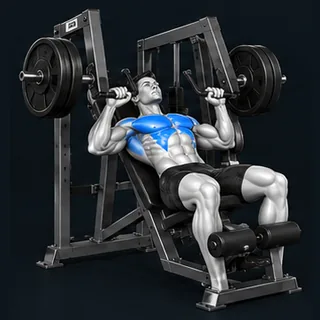
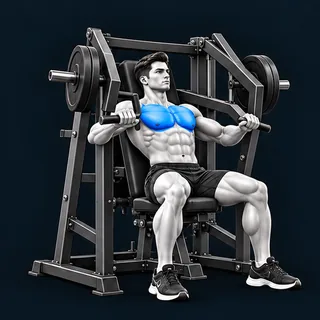
feat(record): 인터벌 운동 중 화면에 운동 그림 + 운동 그림 158종
- 인터벌 화면(IntervalSessionOverlay) 160px 그림(사용자 지시): 운동 중엔 지금 종목,
  휴식·준비 중엔 다음 종목. 그림이 없어도 자리를 남겨 카운트다운이 들썩이지 않게 한다.
  탭(tabata-sheet)이 카탈로그 운동 ID를 넘긴다 — 직접 만든 운동엔 붙지 않는다
- 누적 160개 파일럿 반영(전체160_UUID_파일매핑.json): 운동 158개 · 그림 156장(1,266KB),
  Codex 156 · 사용자 시트 2. 가장자리 조각 1장 자산에서 제거(원본 보존)
- 로컬 QA 화면에 인터벌 미리보기(운동 중 20초·휴식 38초, 개발 모드 전용)
- 릴리스 노트 운동 수 122 → 158, 인터벌 그림 문구 (발송 안 함)

diff --git a/src/app/image-local-qa/picker-qa.tsx b/src/app/image-local-qa/picker-qa.tsx
@@ -2,6 +2,7 @@
 import { useState } from "react";
 import { ActiveSessionOverlay } from "@/components/record/active-session-overlay";
 import { ExerciseCard } from "@/components/record/exercise-card";
+import { IntervalSessionOverlay } from "@/components/record/interval-session-overlay";
 import { IntervalProgramDetail, ProgramDetail } from "@/components/programs/program-catalog";
 import { OFFICIAL_PROGRAMS, isIntervalProgram, isLadderProgram } from "@/lib/domain/official-programs";
 import { amountFields } from "@/lib/domain/set-input";
@@ -17,6 +18,7 @@ import { LocalTrialFailureContext } from "@/lib/domain/exercise-image-local-tria
  * (2026-10-05 클로드 추가. 카드는 계획 모드로 그려 완료 체크가 없다).
  * 「운동 중 화면」 버튼은 고른 첫 운동을 지금 운동, 둘째를 다음 운동으로 하는 운동 중
  * 화면(①제목·③다음 운동 그림)을 띄운다. 값은 가짜이고 아무 데도 저장하지 않는다.
+ * 「인터벌」 버튼은 고른 운동(최대 4개)으로 인터벌 화면을 운동 중(20초)·휴식(38초) 시점에 띄운다.
  * `?program=<key>`면 공식 프로그램 상세(종목 그림)를 그린다 — 실제 경로는 Supabase가 있어야 열린다.
  */
 function toLocal(item: CatalogExercise): LocalExercise {
@@ -44,6 +46,7 @@ export function LocalImagePickerQA({ catalog, broken, program }: { catalog: Cata
   const [open, setOpen] = useState(true);
   const [picked, setPicked] = useState<CatalogExercise[]>([]);
   const [overlay, setOverlay] = useState<"input" | "rest" | null>(null);
+  const [intervalAt, setIntervalAt] = useState<number | null>(null);
   const noop = () => {};
   const imageOf = (item: CatalogExercise | undefined) => {
     const id = item ? imageIdForAddedExercise({ name: item.name, isCustom: item.is_custom }) : undefined;
@@ -60,6 +63,10 @@ export function LocalImagePickerQA({ catalog, broken, program }: { catalog: Cata
       <button className="rounded border px-2" onClick={() => setOverlay("input")}>운동 중 화면(입력)</button>
       <button className="rounded border px-2" onClick={() => setOverlay("rest")}>운동 중 화면(휴식)</button>
     </p>}
+    {now && <p className="mt-2 flex gap-2">
+      <button className="rounded border px-2" onClick={() => setIntervalAt(20)}>인터벌(운동 중)</button>
+      <button className="rounded border px-2" onClick={() => setIntervalAt(38)}>인터벌(휴식)</button>
+    </p>}
     <LocalTrialFailureContext.Provider value={broken}>
       <div className="mt-3 flex flex-col gap-3">
         {picked.map((item, i) => (
@@ -68,6 +75,11 @@ export function LocalImagePickerQA({ catalog, broken, program }: { catalog: Cata
             onRemoveExercise={noop} planning />
         ))}
       </div>
+      {now && intervalAt !== null && (
+        <IntervalSessionOverlay open exerciseNames={picked.slice(0, 4).map(item => item.name)}
+          exerciseIds={picked.slice(0, 4).map(item => item.id)} minutes={4} elapsedSeconds={intervalAt}
+          paused={false} onTogglePause={noop} onStop={() => setIntervalAt(null)} />
+      )}
       {now && overlay && (
         <ActiveSessionOverlay open mode={overlay} elapsedLabel="12:34" exerciseName={now.name} exerciseImage={imageOf(now)}
           progress={{ completed: 1, total: 4, percent: 25 }} setProgress={{ done: 1, total: 3, remaining: 2 }}

diff --git a/src/components/record/interval-session-overlay.tsx b/src/components/record/interval-session-overlay.tsx
@@ -3,6 +3,8 @@
 import { intervalCheer } from "@/lib/domain/interval-cheer";
 import { intervalCueAt } from "@/lib/domain/interval-cue";
 import type { TabataMinutes } from "@/lib/domain/tabata";
+import { exerciseImageSrc } from "@/lib/domain/exercise-images";
+import { ExerciseThumbTile } from "./exercise-thumb";
 
 /**
  * 인터벌 실행 화면 (사용자 지시 2026-08-13).
@@ -25,6 +27,12 @@ export type IntervalSessionOverlayProps = {
   open: boolean;
   /** 4종목. 순서가 라운드 순서다 */
   exerciseNames: readonly string[];
+  /**
+   * `exerciseNames`와 같은 순서의 카탈로그 운동 ID (사용자 지시 2026-10-05 — 인터벌 중에도
+   * 그림). 그림 연결표에 없는 ID(그림 없는 운동·직접 만든 운동)는 빈 자리가 된다.
+   * 넘기지 않으면 그림 자리 자체가 없다(예전 화면 그대로).
+   */
+  exerciseIds?: readonly string[];
   minutes: TabataMinutes;
   /** 음원의 현재 위치(초). 부모가 `audio.currentTime`을 그대로 넘긴다 */
   elapsedSeconds: number;
@@ -36,6 +44,7 @@ export type IntervalSessionOverlayProps = {
 export function IntervalSessionOverlay({
   open,
   exerciseNames,
+  exerciseIds,
   minutes,
   elapsedSeconds,
   paused,
@@ -62,6 +71,20 @@ export function IntervalSessionOverlay({
           cue.phase === "prep" ? cue.nextExerciseIndex : cue.nextExerciseIndex,
         )
       : null;
+  /*
+    그림은 **지금 할 동작**이다 — 운동 중이면 지금 종목, 휴식·준비 중이면 다음 종목.
+    쉬는 10초 동안 다음 자세를 미리 본다. 끝나면 없다.
+  */
+  const imageIndex =
+    cue.phase === "work"
+      ? cue.exerciseIndex
+      : cue.phase === "rest" || cue.phase === "prep"
+        ? cue.nextExerciseIndex
+        : null;
+  const imageId =
+    imageIndex === null ? undefined : exerciseIds?.[imageIndex];
+  const imageName = nameAt(imageIndex);
+  const imageSrc = imageId ? exerciseImageSrc(imageId) : undefined;
   const cheer = intervalCheer(cue);
   const roundLabel =
     cue.phase === "done"
@@ -118,6 +141,23 @@ export function IntervalSessionOverlay({
       </header>
 
       <div className="flex flex-1 flex-col items-center justify-center gap-3">
+        {/*
+          종목 그림 160px (사용자 지시 2026-10-05). 그림이 없는 종목이어도 **자리는
+          남긴다** — 20초마다 종목이 바뀌는데 그림 유무로 아래 카운트다운이 위아래로
+          들썩이면 그게 제일 먼저 거슬린다. 끝난 화면과 그림을 안 넘긴 화면에는 없다.
+        */}
+        {exerciseIds && cue.phase !== "done" && (
+          imageSrc && imageId && imageName ? (
+            <ExerciseThumbTile
+              key={imageId}
+              id={imageId}
+              name={imageName}
+              size={160}
+            />
+          ) : (
+            <div aria-hidden data-testid="interval-image-slot" className="h-40 w-40" />
+          )
+        )}
         {/* 숫자가 빠진 자리를 종목 이름이 채운다 — 이제 이게 화면의 주인공이다 */}
         <p
           data-testid="interval-phase"

diff --git a/src/components/record/interval-session-overlay.test.tsx b/src/components/record/interval-session-overlay.test.tsx
@@ -2,6 +2,7 @@
 
 import { cleanup, fireEvent, render, screen } from "@testing-library/react";
 import { afterEach, describe, expect, it, vi } from "vitest";
+import { seedExerciseIdByName } from "@/lib/domain/exercise-images";
 import { IntervalSessionOverlay } from "./interval-session-overlay";
 
 afterEach(cleanup);
@@ -238,5 +239,49 @@ describe("IntervalSessionOverlay", () => {
       "9라운드 / 32라운드",
     );
     expect(screen.getByTestId("interval-phase").textContent).toBe("맨몸 스쿼트");
+  });
+});
+
+// 인터벌 중에도 운동 그림 (사용자 지시 2026-10-05). 운동 중엔 지금 종목, 휴식·준비 중엔
+// 다음 종목. 그림이 없으면 자리만 남겨 카운트다운이 들썩이지 않게 한다.
+describe("인터벌 화면 그림", () => {
+  const IDS = NAMES.map((n) => seedExerciseIdByName(n) ?? `no-image-${n}`);
+  const imgSrc = (c: HTMLElement) => {
+    const s = c.querySelector("img")?.getAttribute("src");
+    return s ? decodeURIComponent(s) : null;
+  };
+
+  it("전제 — 앞 두 종목은 그림 연결표에 있다 (아래 단언이 공회전하지 않게)", () => {
+    expect(seedExerciseIdByName("맨몸 스쿼트")).toBeTruthy();
+    expect(seedExerciseIdByName("니 푸시업")).toBeTruthy();
+  });
+
+  it("운동 중(20초)에는 지금 종목의 그림을 160px로 보인다", () => {
+    const { container } = view(20, { exerciseIds: IDS });
+    expect(imgSrc(container)).toContain(IDS[0]);
+    expect(container.querySelector("img")!.parentElement!.className).toContain("h-40");
+  });
+
+  it("휴식 중(10초)에는 다음 종목의 그림을 보인다", () => {
+    const { container } = view(38, { exerciseIds: IDS });
+    expect(screen.getByTestId("interval-phase").textContent).toBe("휴식");
+    expect(imgSrc(container)).toContain(IDS[1]);
+  });
+
+  it("준비 중에는 첫 종목의 그림을 보인다", () => {
+    const { container } = view(5, { exerciseIds: IDS });
+    expect(imgSrc(container)).toContain(IDS[0]);
+  });
+
+  it("그림이 없는 종목은 같은 크기의 빈 자리만 남긴다", () => {
+    const { container } = view(20, { exerciseIds: ["no-image", ...IDS.slice(1)] });
+    expect(container.querySelector("img")).toBeNull();
+    expect(screen.getByTestId("interval-image-slot").className).toContain("h-40");
+  });
+
+  it("ID를 넘기지 않으면 그림 자리 자체가 없다 (예전 화면)", () => {
+    const { container } = view(20);
+    expect(container.querySelector("img")).toBeNull();
+    expect(screen.queryByTestId("interval-image-slot")).toBeNull();
   });
 });

diff --git a/src/components/record/exercise-thumb.tsx b/src/components/record/exercise-thumb.tsx
@@ -31,13 +31,20 @@ export function ExerciseThumbTile({
   name: string;
   /** 불러오기 실패 시 부위 아이콘용. 없으면(프로그램 화면) 실패 시 칸을 숨긴다 */
   bodyPart?: BodyPart;
-  /** 목록 48px(기본) · 기록 화면 운동 카드 40px · 운동 중 화면 72px */
-  size?: 72 | 48 | 40;
+  /** 목록 48px(기본) · 기록 화면 운동 카드 40px · 운동 중 화면 72px · 인터벌 화면 160px */
+  size?: 160 | 72 | 48 | 40;
 }) {
   const broken = useContext(LocalTrialFailureContext);
   const src = localTrialImage(name, broken) ?? (id ? exerciseImageSrc(id) : undefined);
   const [failedSrc, setFailedSrc] = useState<string | null>(null);
-  const box = size === 72 ? "h-[72px] w-[72px]" : size === 48 ? "h-12 w-12" : "h-10 w-10";
+  const box =
+    size === 160
+      ? "h-40 w-40"
+      : size === 72
+        ? "h-[72px] w-[72px]"
+        : size === 48
+          ? "h-12 w-12"
+          : "h-10 w-10";
 
   if (!src) {
     return <span aria-hidden className={`${box} flex-none rounded-lg bg-surface-2`} />;

diff --git a/src/components/record/tabata-sheet.tsx b/src/components/record/tabata-sheet.tsx
@@ -495,6 +495,7 @@ function TabataSheetBody({
         <IntervalSessionOverlay
           open
           exerciseNames={picked.map((item) => item.name)}
+          exerciseIds={picked.map((item) => item.id)}
           minutes={minutes}
           elapsedSeconds={elapsed}
           paused={paused}

diff --git a/scripts/build-exercise-images.py b/scripts/build-exercise-images.py
@@ -5,7 +5,7 @@
 
 두 출처를 합친다.
 1. **Codex 파일럿 PASS** — `운동 이미지/GPT 생성된 이미지/전체NN_UUID_파일매핑.json`(누적,
-   2026-10-05 두 번째 묶음부터 누적 파일을 쓴다 — 80 → 120. 첫 묶음은 `운동_UUID_파일매핑.json`)에서
+   2026-10-05 두 번째 묶음부터 누적 파일을 쓴다 — 80 → 120 → 160. 첫 묶음은 `운동_UUID_파일매핑.json`)에서
    `final_qa == "PASS"`이고 file이 있는 행만. 인수인계서 지시대로 **운동 ID(UUID)로** 잇는다.
 2. **사용자 시트에서 자른 것** — `scripts/slice-exercise-images.py`가 만든
    `운동 이미지/_sliced/{slug}.png`. 아래 `SLICED`가 slug → 카탈로그 이름을 잇는다.
@@ -36,7 +36,7 @@ OUT = os.path.join(ROOT, "public", "exercise-images")
 DATA = os.path.join(ROOT, "src", "lib", "domain", "exercise-images.data.json")
 MANIFEST = os.path.join(ROOT, "data", "exercise-image-manifest.json")
 #: Codex 누적 매핑. 행의 `file`은 CODEX 폴더 기준 상대 경로다(묶음별 하위 폴더 포함).
-CODEX_MAPPING = "전체120_UUID_파일매핑.json"
+CODEX_MAPPING = "전체160_UUID_파일매핑.json"
 
 #: 가장 크게 그리는 곳은 운동 중 화면 72px(2026-10-05 추가)다. 폰 3배 밀도에서도 흐리지
 #: 않게 320px로 둔다(이전 160px은 48px 목록 기준이었다). 목록·카드는 next/image가 줄여 보낸다.

diff --git a/docs/exercise-image-prompts.md b/docs/exercise-image-prompts.md
@@ -19,18 +19,19 @@
 > ⚠ **다른 앱의 운동 그림을 참고 이미지로 넣지 마라.** 결과물이 그 그림을 본뜬 것이
 > 된다. 화풍은 위 **우리 시트**를 첨부해서 맞춘다.
 
-### 지금까지 들어간 그림 — 운동 122개 (그림 120장)
+### 지금까지 들어간 그림 — 운동 158개 (그림 156장)
 
 `python scripts/build-exercise-images.py`가 두 출처를 합친다. **겹치면 Codex PASS가 이긴다**
 — 단 `PREFER_SHEET`에 적은 운동은 Codex 판의 동작이 틀려 시트판을 쓴다(이유를 함께 적는다).
 
 | 출처 | 운동 수 | 내용 |
 |---|---:|---|
-| Codex 파일럿 PASS 누적 (`전체120_UUID_파일매핑.json`, PASS 117) | 118 | 116장 + 별칭 2(바벨 백스쿼트·컨벤셔널 데드리프트). 시티드 덤벨 리어 레터럴 레이즈 1장은 시트판 우선 |
-| 사용자 시트에서 자른 것 | 4 | 랫풀다운(Codex FAIL) · 덤벨 스퀴즈 프레스 · 인클라인 벤치프레스 머신 · 시티드 덤벨 리어 레터럴 레이즈(Codex 판이 상체를 세운 사이드 레터럴) |
+| Codex 파일럿 PASS 누적 (`전체160_UUID_파일매핑.json`, PASS 155) | 156 | 154장 + 별칭 2(바벨 백스쿼트·컨벤셔널 데드리프트). 리어 레터럴 1장은 시트판 우선 |
+| 사용자 시트에서 자른 것 | 2 | 랫풀다운(Codex FAIL) · 시티드 덤벨 리어 레터럴 레이즈(Codex 판이 상체를 세운 사이드 레터럴) |
 
-그림이 보이는 곳: 운동 선택 목록(48px, 없으면 빈 칸) · 부위별 추천 카드 · **기록 화면 운동 카드**(40px,
-있을 때만. 카드는 이름만 있어 기본 운동 이름 → ID로 찾고, 직접 만든 운동에는 붙이지 않는다).
+그림이 보이는 곳: 운동 선택 목록(48px, 그림 있는 운동 먼저, 없으면 빈 칸) · 부위별 추천 카드 ·
+기록 화면 운동 카드(40px, 있을 때만) · 운동 중 화면 ①제목·③다음 운동(72px) · 공식 프로그램 종목
+(40px, 없으면 빈 칸) · **인터벌 운동 중(160px — 운동 중엔 지금 종목, 휴식·준비 중엔 다음 종목)**.
 
 연결 기준은 **운동 ID(UUID)** 다. 결과 연결표는 `src/lib/domain/exercise-images.data.json`.
 
